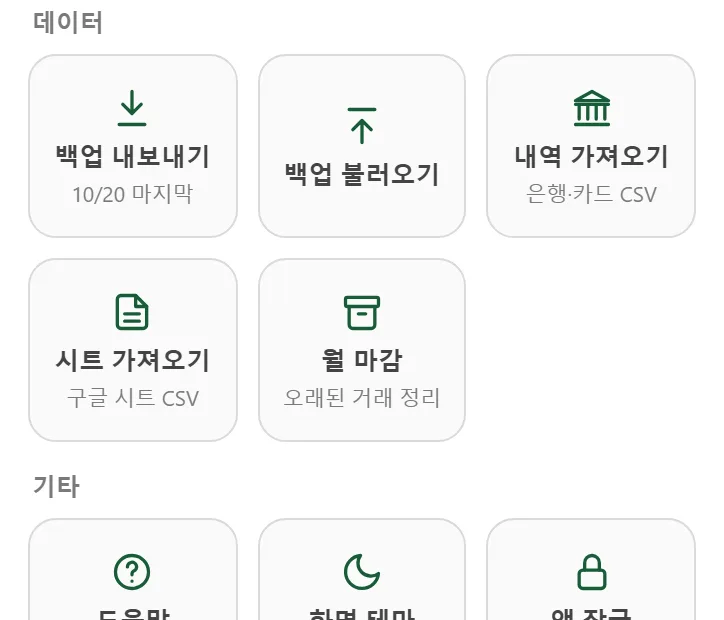
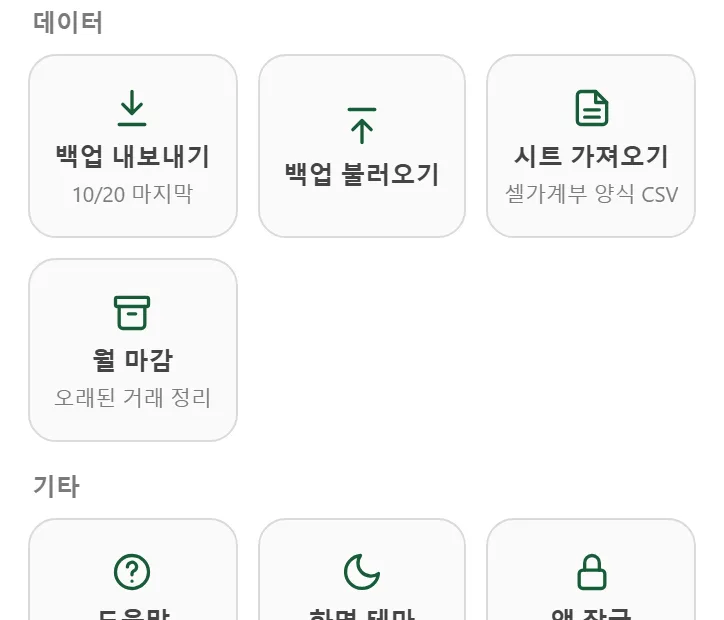
은행 내역 가져오기 삭제, 첫 화면 시트 가져오기 버튼 정리, 브라우저에 기록 보존 요청

diff --git a/js/extras.js b/js/extras.js
@@ -1,5 +1,5 @@
 'use strict';
-// 부가 기능: 카테고리 추정, 백업 알림, 미분류 정리, 은행 내역, 잠금, 도움말, 설정 창
+// 부가 기능: 카테고리 추정, 백업 알림, 미분류 정리, 잠금, 도움말, 설정 창
 /* ---------- 카테고리 추정 (같은 메모의 예전 기록 → 키워드) ---------- */
 function guessCat(memo, type) {
   if (!memo || type === 'move') return '';
@@ -33,47 +33,6 @@ function uncatSheet(i) {
   openSheet(`${bh('미분류 정리', `${i + 1} / ${UQ.length}`, `<button class="btn"${at('uncatSkip', { i })}>건너뛰기</button>`)}
     <div class="uq"><div><b>${fmt(t.amt)}</b>원 <span class="mut">${TXL[t.type]}</span></div><div class="mut">${dLabel(t.date)} · ${esc(accName(t.acct))}${t.memo ? ' · ' + esc(t.memo) : ''}</div></div>
     <div class="chips">${S.cats.filter(c => c.k === kind).map(c => `<button class="chip${c.n === g ? ' on' : ''}"${at('uncatSet', { i, v: c.n })}>${catLbl(c.n)}</button>`).join('')}</div>`);
-}
-
-/* ---------- 은행·카드 내역 CSV ---------- */
-async function readText(f) { // 은행 파일은 EUC-KR인 경우가 많음
-  const buf = await f.arrayBuffer();
-  try { return new TextDecoder('utf-8', { fatal: true }).decode(buf).replace(/^\uFEFF/, ''); } catch (e) { }
-  try { return new TextDecoder('euc-kr').decode(buf); } catch (e) { return new TextDecoder().decode(buf); }
-}
-function bankParse(rows) {
-  const has = (c, re) => re.test(String(c || '').replace(/\s/g, ''));
-  const RE = { date: /거래일|일자|날짜|일시|이용일|승인일|사용일/, out: /출금|지출|이용금액|결제금액|사용금액|승인금액|찾으신/, inn: /입금|맡기신/, amt: /^금액|거래금액/,
-    memo: /내용|적요|거래처|가맹점|이용처|사용처|기재|메모|받는분|보낸분|상호/ };
-  const hi = rows.findIndex(r => r.some(c => has(c, RE.date)) && r.some(c => has(c, RE.out) || has(c, RE.inn) || has(c, RE.amt)));
-  if (hi < 0) return { items: [] };
-  const h = rows[hi], col = re => h.findIndex(c => has(c, re));
-  const ci = { date: col(RE.date), out: col(RE.out), inn: col(RE.inn), amt: col(RE.amt), memo: col(RE.memo) };
-  const body = rows.slice(hi + 1), signed = ci.amt >= 0 && body.some(r => num(r[ci.amt]) < 0);
-  const items = [];
-  for (const r of body) {
-    const date = toDate(r[ci.date]); if (!date) continue;
-    const o = ci.out >= 0 ? Math.abs(num(r[ci.out])) : 0, i = ci.inn >= 0 ? Math.abs(num(r[ci.inn])) : 0;
-    let type, amt;
-    if (o) { type = 'out'; amt = o; } else if (i) { type = 'in'; amt = i; }
-    else if (ci.amt >= 0 && num(r[ci.amt])) { const v = num(r[ci.amt]); type = v < 0 || !signed ? 'out' : 'in'; amt = Math.abs(v); }
-    else continue;
-    items.push({ date, type, amt: Math.round(amt), memo: ci.memo >= 0 ? String(r[ci.memo] || '').trim().slice(0, 60) : '' });
-  }
-  return { items };
-}
-function bankImport(items, acct) {
-  // 이미 입력한 거래(같은 날짜·구분·금액)는 건너뜀 — 손으로 적은 메모가 달라도 중복으로 봄
-  const k = t => [t.date, t.type, t.amt].join('|'), have = {};
-  for (const t of S.tx) if (t.acct === acct) have[k(t)] = (have[k(t)] || 0) + 1;
-  const list = []; let dup = 0, unc = 0, early = 0;
-  for (const it of items) {
-    if (have[k(it)]) { have[k(it)]--; dup++; continue; }
-    const cat = guessCat(it.memo, it.type); if (!cat) unc++; if (it.date < S.settings.start) early++;
-    list.push(touch({ id: uid(), date: it.date, acct, type: it.type, amt: it.amt, cat, to: '', memo: it.memo }));
-  }
-  if (list.length) commit(() => S.tx.push(...list));
-  return { add: list.length, dup, unc, early };
 }
 
 /* ---------- 앱 잠금 (PIN + Face ID) ---------- */
@@ -210,8 +169,7 @@ function openGear() {
         ${Sync.status === 'off' ? '' : tile('cloud', '동기화', 'syncMenu', syncLbl)}
         ${tile('down', '백업 내보내기', 'exportJson', bkGet().last ? `${dLabel(bkGet().last)} 마지막` : '')}
         ${tile('up', '백업 불러오기', 'importJson')}
-        ${tile('bank', '내역 가져오기', 'importBank', '은행·카드 CSV')}
-        ${tile('file', '시트 가져오기', 'importCsv', '구글 시트 CSV')}
+        ${tile('file', '시트 가져오기', 'importCsv', '셀가계부 양식 CSV')}
         ${tile('archive', '월 마감', 'closeMenu', '오래된 거래 정리')}
       </div>
       <div class="mgrp">기타</div>

diff --git a/js/data.js b/js/data.js
@@ -12,6 +12,11 @@ ACT.exportJson = () => {
   document.body.appendChild(a); a.click(); setTimeout(() => { URL.revokeObjectURL(a.href); a.remove(); }, 1000);
   bkSet({ last: TODAY(), snooze: '' }); toast('백업 파일을 저장했어요'); if (S) render();
 };
+async function readText(f) { // 엑셀에서 저장한 CSV는 EUC-KR인 경우가 있음
+  const buf = await f.arrayBuffer();
+  try { return new TextDecoder('utf-8', { fatal: true }).decode(buf).replace(/^\uFEFF/, ''); } catch (e) { }
+  try { return new TextDecoder('euc-kr').decode(buf); } catch (e) { return new TextDecoder().decode(buf); }
+}
 let FILEMODE = '';
 ACT.importJson = () => { FILEMODE = 'json'; const f = $('#file'); f.accept = '.json,application/json'; f.multiple = false; f.value = ''; f.click(); };
 ACT.importCsv = () => { FILEMODE = 'csv'; const f = $('#file'); f.accept = '.csv,text/csv'; f.multiple = true; f.value = ''; f.click(); };
@@ -25,16 +30,6 @@ async function onFiles(files) {
       if (S && (S.tx.length || S.accounts.length)) confirmSheet('백업 불러오기', '지금 가계부를 이 백업 파일로 <b>바꿀까요?</b>', '바꾸기', go, true); else go();
     } catch (e) { toast('셀가계부 백업 파일이 아니에요'); }
     return;
-  }
-  if (FILEMODE === 'bank') {
-    const p = bankParse(parseCsv(await readText(files[0])));
-    if (!p.items.length) return openSheet(`${bh('내역 가져오기')}<div class="hint top lg">날짜와 금액 열을 찾지 못했어요.<br>은행·카드 앱에서 거래내역을 <b>CSV</b>로 받아 주세요. 엑셀(xlsx) 파일이면 엑셀에서 'CSV로 저장'한 뒤 고르면 돼요.</div><button class="bigbtn"${at('close')}>확인</button>`);
-    return pickAcct({ title: '어느 계좌의 내역인가요?', sub: `거래 ${p.items.length}건`, onPick: id => {
-      if (!id) return;
-      const r = bankImport(p.items, id);
-      openSheet(`${bh('내역 가져오기 결과', esc(accName(id)))}<div class="hint top lg">추가 ${r.add}건${r.dup ? `<br>이미 있는 거래 ${r.dup}건은 건너뛰었어요` : ''}${r.early ? `<br>시작일 이전 ${r.early}건은 잔액 계산에서 빠져요` : ''}${r.unc ? `<br>카테고리를 못 정한 거래 ${r.unc}건` : ''}</div>
-        ${r.unc ? `<button class="bigbtn"${at('fixUncat')}>미분류 정리하기</button>` : ''}<button class="bigbtn ghost"${at('close')}>확인</button>`);
-    } });
   }
   const texts = []; for (const f of files) texts.push(await readText(f));
   if (!S) S = blankState();

diff --git a/tests/test.js b/tests/test.js
@@ -194,14 +194,6 @@ async function run() {
     { const st = JSON.parse(JSON.stringify(cb.S)); st.tx.filter(x => x.type === 'out').slice(-3).forEach(x => { x.cat = ''; }); cb.load(st);
       const n = cb.uncatQueue().length; A.fixUncat({}); ok(n >= 3 && d.querySelector('#sheet-root.on .uq'), 'uncat sheet opens');
       const v = d.querySelector('[data-a="uncatSet"]').dataset.v; A.uncatSet({ i: 0, v }); ok(cb.uncatQueue().length === n - 1 && d.querySelector('#sheet-root.on .uq'), 'uncat assign + next'); A.close({}); }
-    // 은행·카드 내역 CSV
-    { const p = cb.bankParse(cb.parseCsv('거래내역조회\n계좌번호,123\n거래일시,적요,출금액,입금액,잔액\n2026.10.10 12:00,스타벅스,"5,000",0,"100,000"\n2026.10.11 09:00,급여,0,"2,000,000","2,100,000"\n2026.10.12,버스,"1,500",,\n'));
-      ok(p.items.length === 3 && p.items[0].type === 'out' && p.items[0].amt === 5000 && p.items[1].type === 'in' && p.items[0].memo === '스타벅스', 'bank csv parse');
-      const card = cb.S.accounts.find(a => a.type === 'card'), r1 = cb.bankImport(p.items, card.id), r2 = cb.bankImport(p.items, card.id);
-      ok(r1.add === 3 && r2.add === 0 && r2.dup === 3, 'bank import + skip duplicates');
-      ok(cb.S.tx.some(x => x.memo === '스타벅스' && x.cat === '커피·디저트'), 'bank import guesses category');
-      const p2 = cb.bankParse(cb.parseCsv('이용일자,가맹점명,이용금액\n20261013,쿠팡,"12,300"\n'));
-      ok(p2.items.length === 1 && p2.items[0].date.endsWith('10-13') && p2.items[0].type === 'out' && p2.items[0].amt === 12300, 'card csv parse'); }
     // 앱 잠금
     { A.pinMenu({}); for (const k of '1234') await A.pinKey({ k }); for (const k of '1234') await A.pinKey({ k });
       ok(cb.pinGet() && !d.querySelector('#lock.on'), 'pin set');

diff --git a/js/boot.js b/js/boot.js
@@ -76,6 +76,7 @@ document.addEventListener('DOMContentLoaded', () => {
   if (pinGet()) showLock('unlock');
   $('#file').addEventListener('change', e => onFiles([...e.target.files]));
   S = load();
+  if (S) persist(false); // 기존 기록이면 보존 요청을 바로
   if (S && U.month > ym(TODAY())) U.month = ym(TODAY());
   render();
   if (window.FIREBASE_CONFIG && window.FIREBASE_CONFIG.apiKey) {
@@ -95,4 +96,4 @@ document.addEventListener('DOMContentLoaded', () => {
 });
 // 자동 점검(test.html)용 연결 고리
 window.__cb = { get S() { return S; }, U, ACT, parseQuick, doClose, valueAt, recapCard, render, led, groups, mstats, invSeries, calc, mergeState, importCsv, parseCsv, balAt,
-  util: { blankState, TODAY, mRange, addM, addD, ym }, GUIDE, HELP, applyTheme, fmtU, guessCat, bankParse, bankImport, uncatQueue, showLock, pinGet, load: x => { S = normalize(x); hist.length = 0; fut.length = 0; invalidate(); persist(); render(); } };
+  util: { blankState, TODAY, mRange, addM, addD, ym }, GUIDE, HELP, applyTheme, fmtU, guessCat, uncatQueue, showLock, pinGet, load: x => { S = normalize(x); hist.length = 0; fut.length = 0; invalidate(); persist(); render(); } };

diff --git a/js/ui.js b/js/ui.js
@@ -1,7 +1,7 @@
 'use strict';
 // 화면 공통: 테마, 화면 높이, 화면 상태, 표 그리기, 아래 창, 위·아래 틀
 /* ---------- 앱 버전 · 화면 테마 · 화면 높이 ---------- */
-const APP_VER = '2026.10.21-5';
+const APP_VER = '2026.10.21-6';
 // 화면 테마: auto(휴대폰 설정 따라감) / light / dark
 const THK = KEY + '.theme';
 const themePref = () => { try { return localStorage.getItem(THK) || 'auto'; } catch (e) { return 'auto'; } };
@@ -117,7 +117,6 @@ const ICP = {
   down: '<path d="M12 3v12M7 10l5 5 5-5M5 21h14"/>',
   up: '<path d="M12 21V9M7 14l5-5 5 5M5 3h14"/>',
   file: '<path d="M14 3H6a2 2 0 0 0-2 2v14a2 2 0 0 0 2 2h12a2 2 0 0 0 2-2V9z"/><path d="M14 3v6h6M8 13h8M8 17h8"/>',
-  bank: '<path d="M3 10h18M12 3l9 5H3zM5 10v8M9.7 10v8M14.3 10v8M19 10v8M3 21h18"/>',
   archive: '<rect x="3" y="4" width="18" height="5" rx="1"/><path d="M5 9v10a2 2 0 0 0 2 2h10a2 2 0 0 0 2-2V9M10 13h4"/>',
   cloud: '<path d="M18 10h-1.3A7 7 0 1 0 9 19h9a4.5 4.5 0 0 0 0-9z"/>',
   refresh: '<path d="M21 12a9 9 0 1 1-3-6.7L21 8"/><path d="M21 3v5h-5"/>',

diff --git a/js/edit.js b/js/edit.js
@@ -280,7 +280,6 @@ ACT.fixUncat = () => { UQ = uncatQueue(); uncatSheet(0); };
 ACT.fixMissing = d => { if (uncatQueue().length) ACT.fixUncat(); else ACT.goRow(d); };
 ACT.uncatSet = d => { const i = +d.i, id = UQ[i]; commit(() => { const t = txById(id); if (t) { t.cat = d.v; touch(t); } }); uncatSheet(i + 1); };
 ACT.uncatSkip = d => uncatSheet(+d.i + 1);
-ACT.importBank = () => { FILEMODE = 'bank'; const f = $('#file'); f.accept = '.csv,text/csv'; f.multiple = false; f.value = ''; f.click(); };
 ACT.pinMenu = async () => {
   if (!pinGet()) return showLock('set');
   const bio = await bioAvailable();

diff --git a/js/core.js b/js/core.js
@@ -67,8 +67,10 @@ function normalize(s) {
 }
 let S = null;
 function load() { try { const t = localStorage.getItem(KEY); return t ? normalize(JSON.parse(t)) : null; } catch (e) { return null; } }
+let keepAsked = false;
 function persist(sync = true) {
   try { localStorage.setItem(KEY, JSON.stringify(S)); } catch (e) { toast('저장에 실패했어요. 기기 저장 공간을 확인하세요'); }
+  if (!keepAsked) { keepAsked = true; navigator.storage?.persist?.().catch(() => { }); } // 브라우저에 기록 보존 요청 (공간이 모자라도 지우지 않게)
   if (sync) Sync.dirty();
 }
 

diff --git a/js/pages.js b/js/pages.js
@@ -235,7 +235,6 @@ function vWelcome() {
     <div style="width:100%;margin-top:26px">
       ${Sync.status !== 'off' ? `<button class="bigbtn"${at('signIn')}>구글 로그인해서 이어 쓰기</button>` : ''}
       <button class="bigbtn${Sync.status !== 'off' ? ' ghost' : ''}"${at('startNew')}>새로 시작하기</button>
-      <button class="bigbtn ghost"${at('importCsv')}>구글 시트 CSV 가져오기</button>
       <button class="bigbtn ghost"${at('importJson')}>백업 파일 불러오기</button>
       <button class="link wlink"${at('help')}>사용법 보기</button>
     </div>

diff --git a/sw.js b/sw.js
@@ -1,5 +1,5 @@
 // 오프라인 실행용 서비스 워커 — 앱 파일만 캐시하고, 가계부 데이터는 다루지 않는다.
-const VER = 'cellbook-v7';
+const VER = 'cellbook-v8';
 const SHELL = ['./', './index.html', './app.css', './js/core.js', './js/ui.js', './js/views.js', './js/quick.js', './js/pages.js', './js/extras.js', './js/edit.js', './js/data.js', './js/boot.js', './err.js', './head.js', './config.js', './manifest.webmanifest', './icon.svg', './icon-192.png', './icon-512.png'];
 const FB = 'https://www.gstatic.com/firebasejs/';
 

diff --git a/js/views.js b/js/views.js
@@ -282,7 +282,7 @@ function swOpen(tr) {
 function swStart(e) {
   if (U.tab !== 'input' || e.button > 0) return;
   const tr = e.target.closest?.('#grid tr[data-a="cell"]');
-  if (SW.open && !e.target.closest('.swdel')) { if (tr !== SW.open.tr || true) { SW.eat = true; swClose(); return; } }
+  if (SW.open && !e.target.closest('.swdel')) { SW.eat = true; swClose(); return; } // 열린 줄이 있으면 먼저 닫기만
   if (!tr || rowById(tr.dataset.id)?.auto) return;
   Object.assign(SW, { tr, x: e.clientX, y: e.clientY, dx: 0, on: false });
 }
